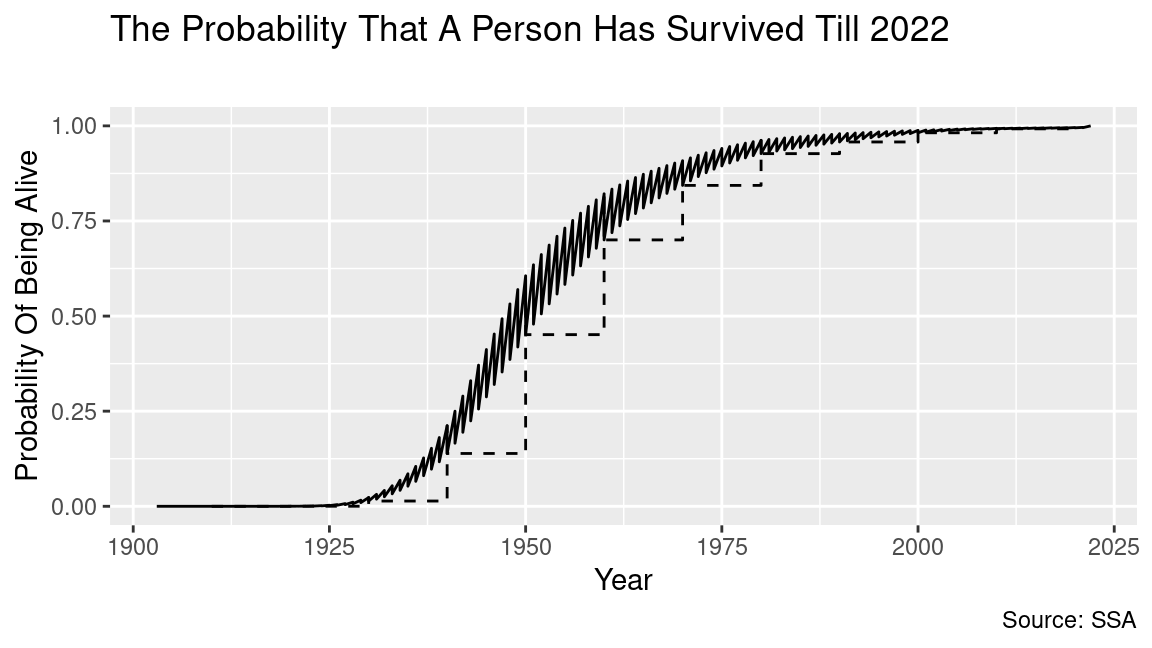
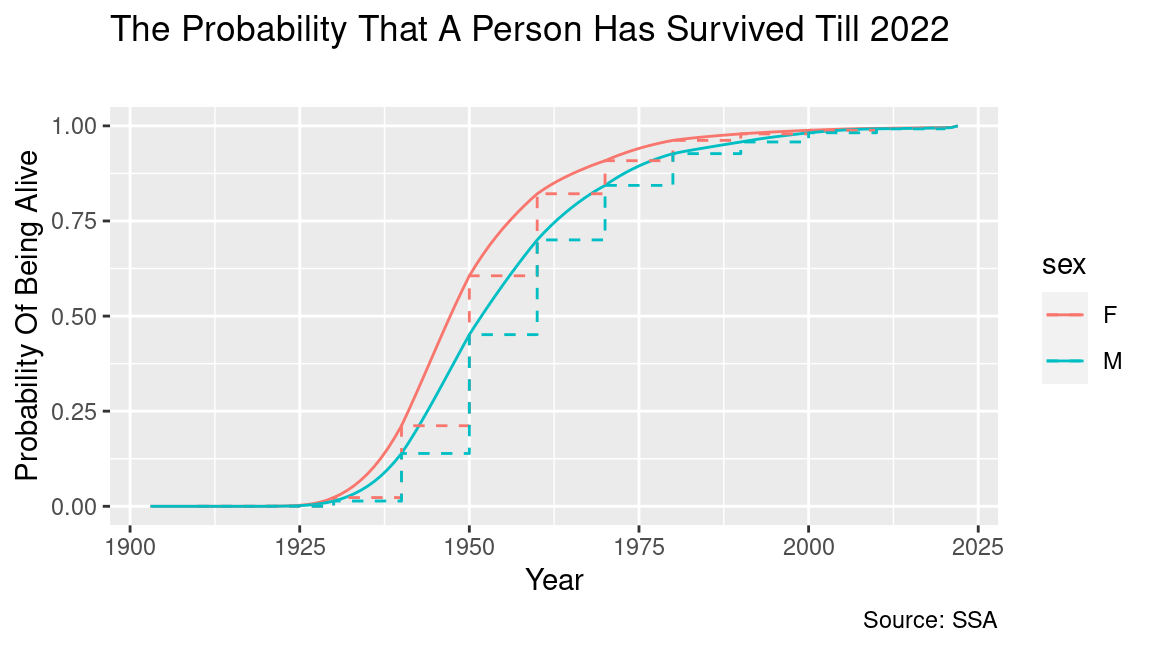
make some changes for the plotting.

diff --git a/projects/project-02/project-02-estimate-age-from-name.md b/projects/project-02/project-02-estimate-age-from-name.md
@@ -21,9 +21,9 @@ results, since we now have 7 years worth of additional data.
 Let us start by reading in the baby names data from `data/names.csv.gz`.
 
 ``` r
-# Load the tidyverse package and install zoo package
+# Load the tidyverse package
 library(tidyverse)
-library(zoo)
+
 
 # Read data/names.csv.gz into a data frame named `tbl_names`
 
@@ -254,7 +254,7 @@ tbl_lifetables_extended_2022 <- tbl_lifetables_extended |>
   filter(year + age == 2022)
   tbl_lifetables_extended_2022 |> 
   # Initialize a ggplot of year vs. probability of being alive (lx/10^5)
-  ggplot(aes(x = year, y = (lx/10^5))) +
+  ggplot(aes(x = year, y = (lx/10^5), color = sex)) +
   # Add a line layer
   geom_line() +
   # Add a step layer for the non-imputed data
